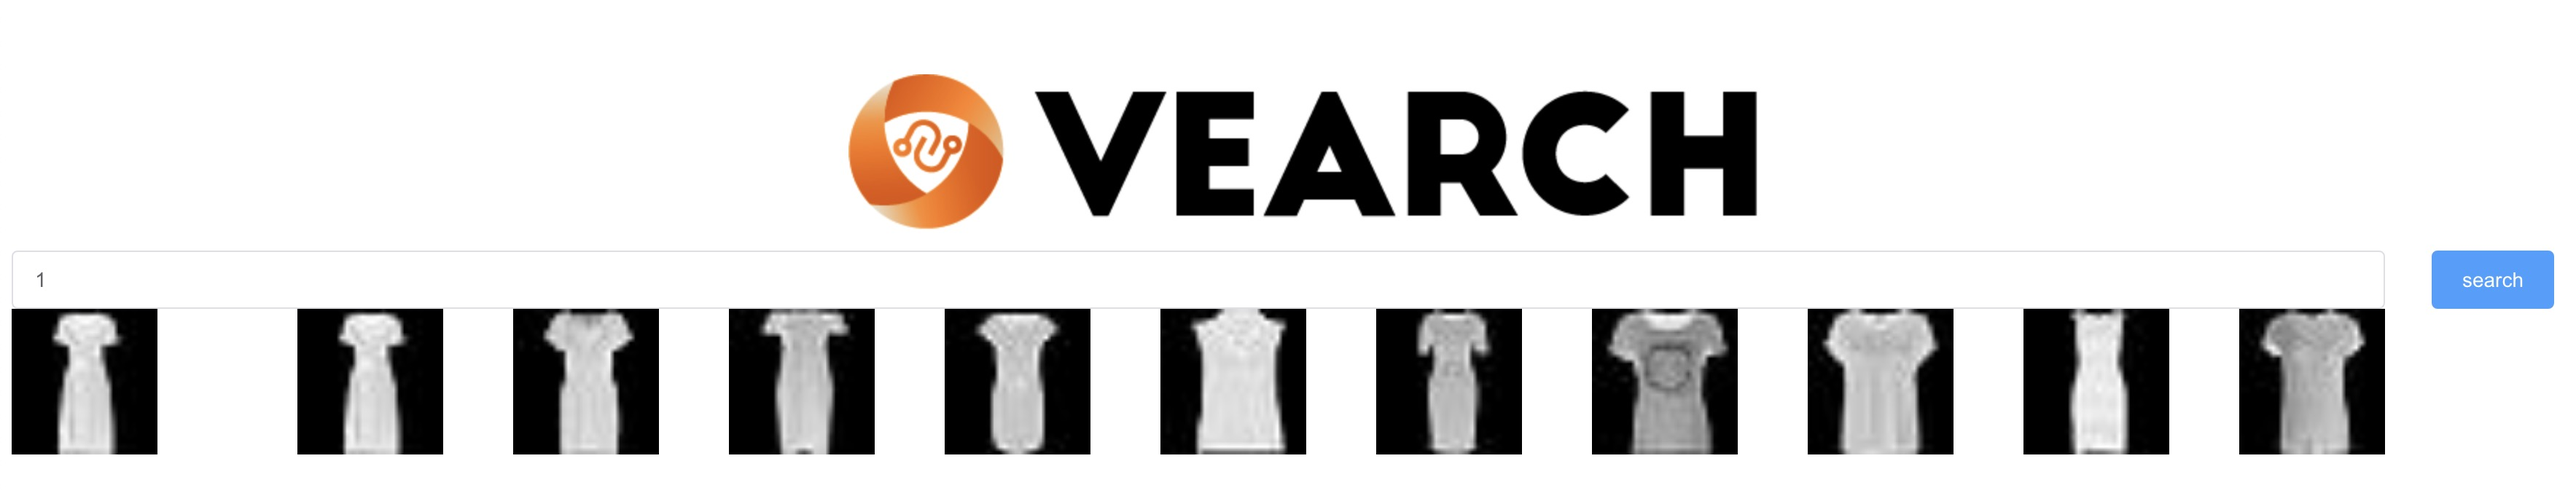
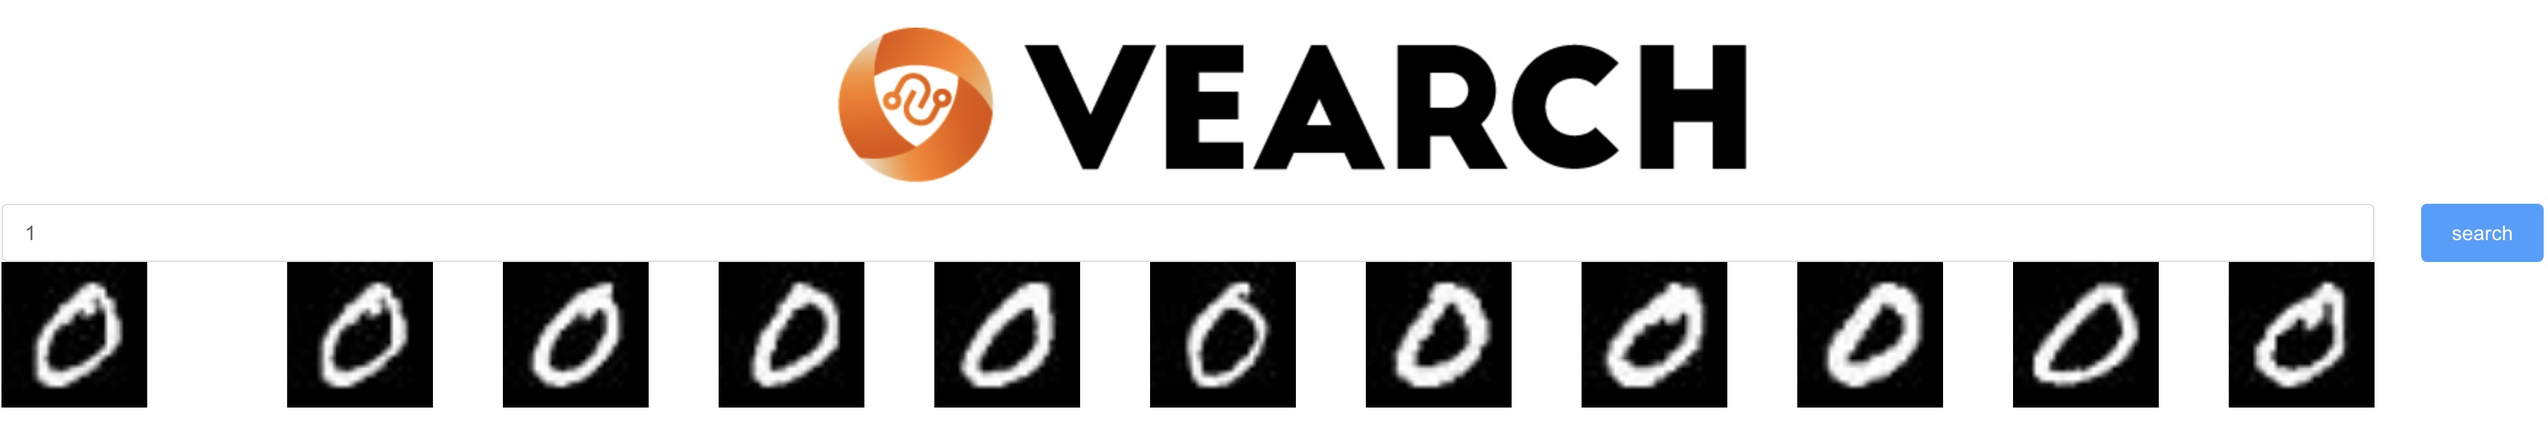
update vearch image search demo

Changed region(s): [[0.0, 0.4623, 1.0, 0.9863], [0.0, 0.0616, 0.9042, 0.4932]]

diff --git a/docs/demos/MNIST-image-search.md b/docs/demos/MNIST-image-search.md
@@ -1,0 +1,38 @@
+# MNIST image search
+A simple image neural search demo for MNIST. No extra dependencies needed, simply run:
+```shell
+docker run -it -p 8812:8812 --env "WEB_PORT=8812" --name vearch-demo   gdream/vearch-demo:latest
+```
+
+```shell
+$ docker run -it -p 8812:8812 --env "WEB_PORT=8812" --name vearch-demo   gdream/vearch-demo:latest
+
+
+██╗   ██╗███████╗ █████╗ ██████╗  ██████╗██╗  ██╗
+██║   ██║██╔════╝██╔══██╗██╔══██╗██╔════╝██║  ██║
+██║   ██║█████╗  ███████║██████╔╝██║     ███████║
+╚██╗ ██╔╝██╔══╝  ██╔══██║██╔══██╗██║     ██╔══██║
+ ╚████╔╝ ███████╗██║  ██║██║  ██║╚██████╗██║  ██║
+  ╚═══╝  ╚══════╝╚═╝  ╚═╝╚═╝  ╚═╝ ╚═════╝╚═╝  ╚═╝
+                                                 
+
+------------ [vearch]: starting 
+------------ [vearch]: start success 
+------------ create db[mnist] success, resp: {"code":200,"msg":"success","data":{"id":1,"name":"mnist"}} 
+------------ create space[mnist] success, resp: {"code":200,"msg":"success","data":{"id":1,"name":"mnist","version":2,"db_id":1,"enabled":true,"partitions":[{"id":1,"space_id":1,"db_id":1,"partition_slot":0,"replicas":[1]}],"partition_num":1,"replica_num":1,"properties":{"feature": {"type": "vector", "dimension": 64, "format": "normalization"}},"engine":{"name":"gamma","index_size":10000,"metric_type":"InnerProduct","retrieval_type":"IVFPQ","retrieval_param":{"metric_type": "InnerProduct", "ncentroids": 256, "nsubvector": 32}},"space_properties":{"feature":{"field_type":5,"type":"vector","format":"normalization","dimension":64,"option":1}}}} 
+Downloading http://yann.lecun.com/exdb/mnist/train-images-idx3-ubyte.gz to ./mnist/train-images-idx3-ubyte.gz
+Extracting ./mnist/train-images-idx3-ubyte.gz to ./mnist/
+Downloading http://yann.lecun.com/exdb/mnist/train-labels-idx1-ubyte.gz to ./mnist/train-labels-idx1-ubyte.gz
+Extracting ./mnist/train-labels-idx1-ubyte.gz to ./mnist/
+------------ Begin insert data 
+------------ insert complete num: 0, resp: <Response [200]> 
+------------ insert complete num: 1000, resp: <Response [200]> 
+------------ [vearch]:  App running at:
+    - Network::   http://172.17.0.4:8812/ 
+    - Local:   http://localhost:8812/  
+```
+
+This downloads the MNIST training and test dataset, choose 1000 train data extract feature and insert into vearch, then you can retrieve relevant results by http://localhost:8812/ . 
+**NOTICE**: If you change the port mapping of the container, remember to modify the port of the service synchronously. 
+
+![vearch-image-demo](../img/vearch-image-demo.jpg)
